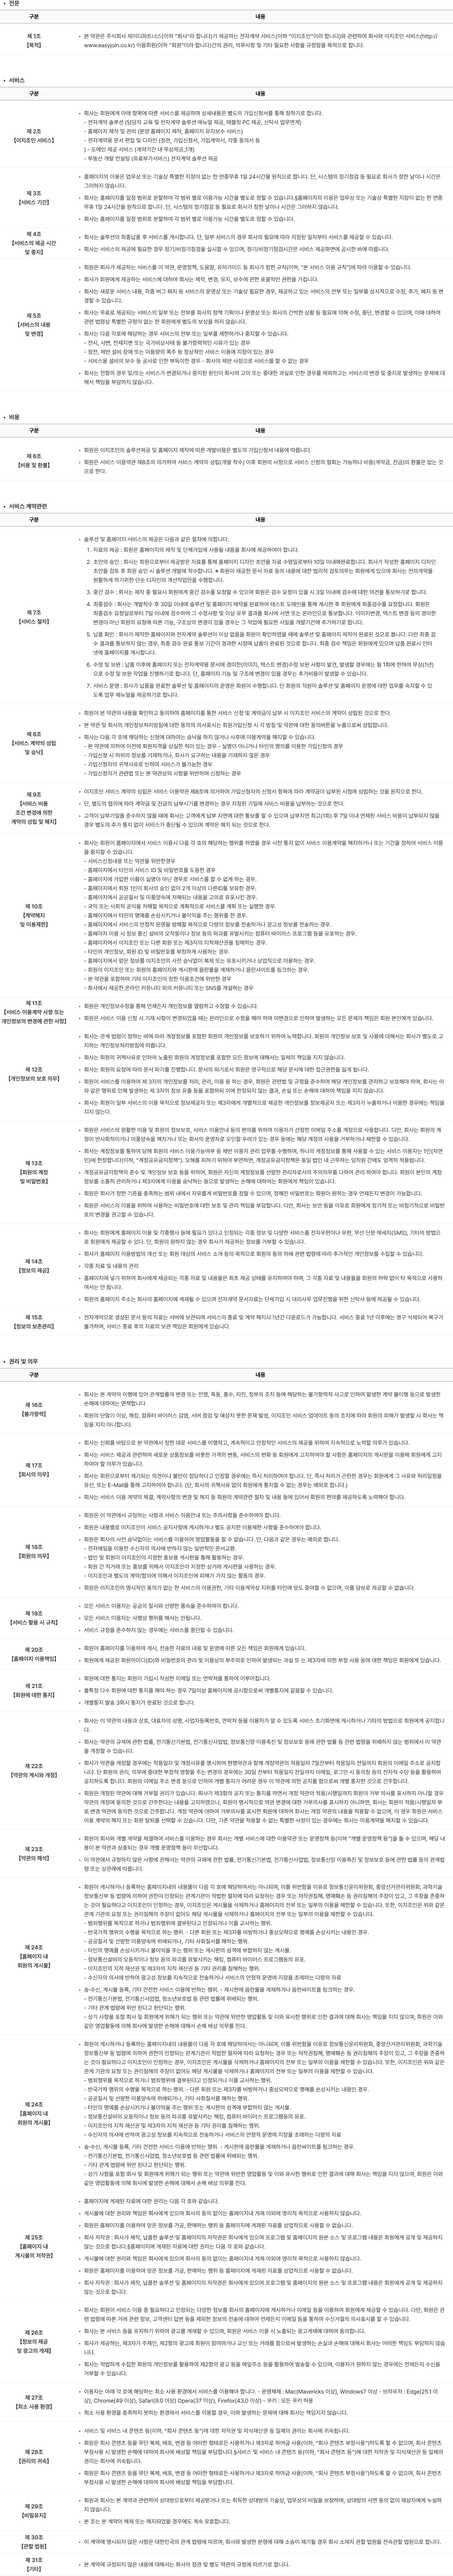
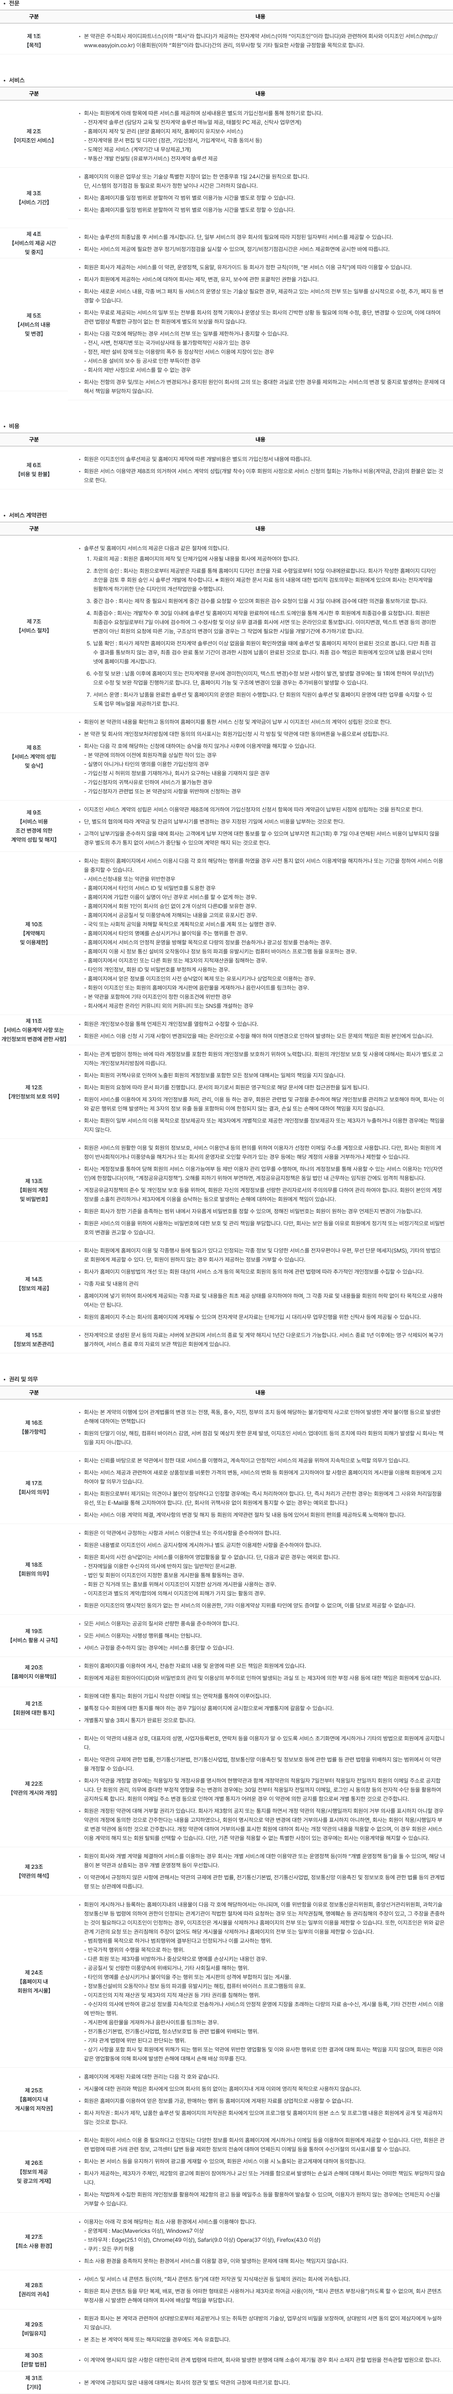
...

diff --git a/src/pages/PrivacyPolicy/index.tsx b/src/pages/PrivacyPolicy/index.tsx
@@ -88,7 +88,6 @@ const PrivacyPolicy = () => {
 나. 개인정보의 수집목적 및 이용목적
 다. 회사가 수집하는 개인정보 항목 및 수집방법
 라. 회사가 수집하는 개인정보의 보유 및 이용기간
-
 마. 회사가 수집한 개인정보의 공유 및 제공
 바. 이용자 자신의 개인정보 관리(열람,정정,삭제 등)에 관한 사항
 사. 쿠키(cookie)의 운영에 관한 사항
@@ -107,10 +106,10 @@ const PrivacyPolicy = () => {
 나. 개인정보의 수집목적 및 이용목적
 
 개인정보라 함은 생존하는 개인에 관한 정보로서 당해 정보에 포함되어 있는 성명, 주민등록번호 등의 사항에 의하여 당해 개인을 식별할 수 있는 정보(당해 정보만으로는 특정 개인을 식별할 수 없더라도 다른 정보와 용이하게 결합하여 식별할 수 있는 것을 포함)를 말합니다.
-대부분의 회사 서비스는 별도의 사용자 등록이 없이 언제든지 사용할 수 있습니다. 그러나 회사는 회원서비스등를  통하여 이용자들에게 맞춤식 서비스를 비롯한 보다 더 향상된 양질의 서비스를 제공하기 위하여 이용자 개인의 정보를 수집하고 있습니다.
+대부분의 회사 서비스는 별도의 사용자 등록이 없이 언제든지 사용할 수 있습니다. 그러나 회사는 회원서비스등을  통하여 이용자들에게 맞춤식 서비스를 비롯한 보다 더 향상된 양질의 서비스를 제공하기 위하여 이용자 개인의 정보를 수집하고 있습니다.
 회사는 이용자의 사전 동의 없이는 이용자의 개인 정보를 함부로 공개하지 않으며, 수집된 정보는 아래와 같이 이용하고 있습니다.
 첫째, 이용자들이 제공한 개인정보를 바탕으로 보다 더 유용한 서비스를 개발할 수 있습니다. 회사는 신규 서비스개발이나 컨텐츠의 확충시에 기존 이용자들이 회사에 제공한 개인정보를 바탕으로 개발해야 할 서비스의 우선 순위를 보다 더 효율적으로 정하고, 회사는 이용자들이 필요로 할 컨텐츠를 합리적으로 선택하여 제공할 수 있습니다.
-둘째, 회사가 제공하는 각종 정보 및 서비스 등은 대부분 무료입니다. 회사는 이러한 무료 서비스를 제공하기 위해서 광고를 게재하고 있는데, 이용자들에 대한 정확한 개인정보를 바탕으로 각 서비스나 메뉴 등에 적절하게 광고와 내용들을 전달해 드릴 수 있으며, 이것은 궁극적으로 회사가 이용자 여러분들게 드리는 또 하나의 정보로서의 가치를 지니게 됩니다. 회사는 광고주들로부터 광고를 받아 광고주들이 대상으로 하려는 이용자의 유형에 맞게 광고를 보여줄 뿐, 광고주들에게는 절대로 이용자들의 개인정보를 보여주거나 제공하지 않습니다.
+둘째, 회사가 제공하는 각종 정보 및 서비스 등은 대부분 무료입니다. 회사는 이러한 무료 서비스를 제공하기 위해서 광고를 게재하고 있는데, 이용자들에 대한 정확한 개인정보를 바탕으로 각 서비스나 메뉴 등에 적절하게 광고와 내용들을 전달해 드릴 수 있으며, 이것은 궁극적으로 회사가 이용자 여러분들께 드리는 또 하나의 정보로서의 가치를 지니게 됩니다. 회사는 광고주들로부터 광고를 받아 광고주들이 대상으로 하려는 이용자의 유형에 맞게 광고를 보여줄 뿐, 광고주들에게는 절대로 이용자들의 개인정보를 보여주거나 제공하지 않습니다.
 셋째, 수집된 개인정보는 협력업체에 제공될 수 있습니다.
 넷째, 각 수집정보별 수집목적은 다음과 같습니다.
 1. 성명,생년월일,성별,아이디,비밀번호 : 서비스이용에 따른 본인식별, 연령제한 서비스의 제공
@@ -150,7 +149,7 @@ const PrivacyPolicy = () => {
 
 이용자는 언제든지 회사 홈페이지를 이용하여 등록되어 있는 자신의 개인정보를 조회하거나 수정할 수 있으며 가입해지를 요청할 수도 있습니다.
 이용자들의 개인정보 조회 및 수정을 위해서는 회사 회원관리 메뉴에서 아이디와 비밀번호를 사용하여 로그인(LOG-IN)하면 되는데, 아이디(ID) 및 생년월일, 이름을 제외한 모든 입력사항을 수정할 수 있습니다. 또한, 비밀번호를 잊어버린 경우에는 ID/PW찾기를 클릭하여 본인 확인에 필요한 사항을 입력하시면, 본인여부 확인 후 email을 통하여 비밀번호를 알려 드립니다.
-이용자들은 회사 서비스의 회원 아이디(ID)에 대하여 가입해지 또는 이용해지를 할 수 있읍니다. 이때 관리자에게 메일이나 전화로 요청하시기 바랍니다.
+이용자들은 회사 서비스의 회원 아이디(ID)에 대하여 가입해지 또는 이용해지를 할 수 있습니다. 이때 관리자에게 메일이나 전화로 요청하시기 바랍니다.
 
 사. 쿠키(cookie)의 운영에 관한 사항
 
